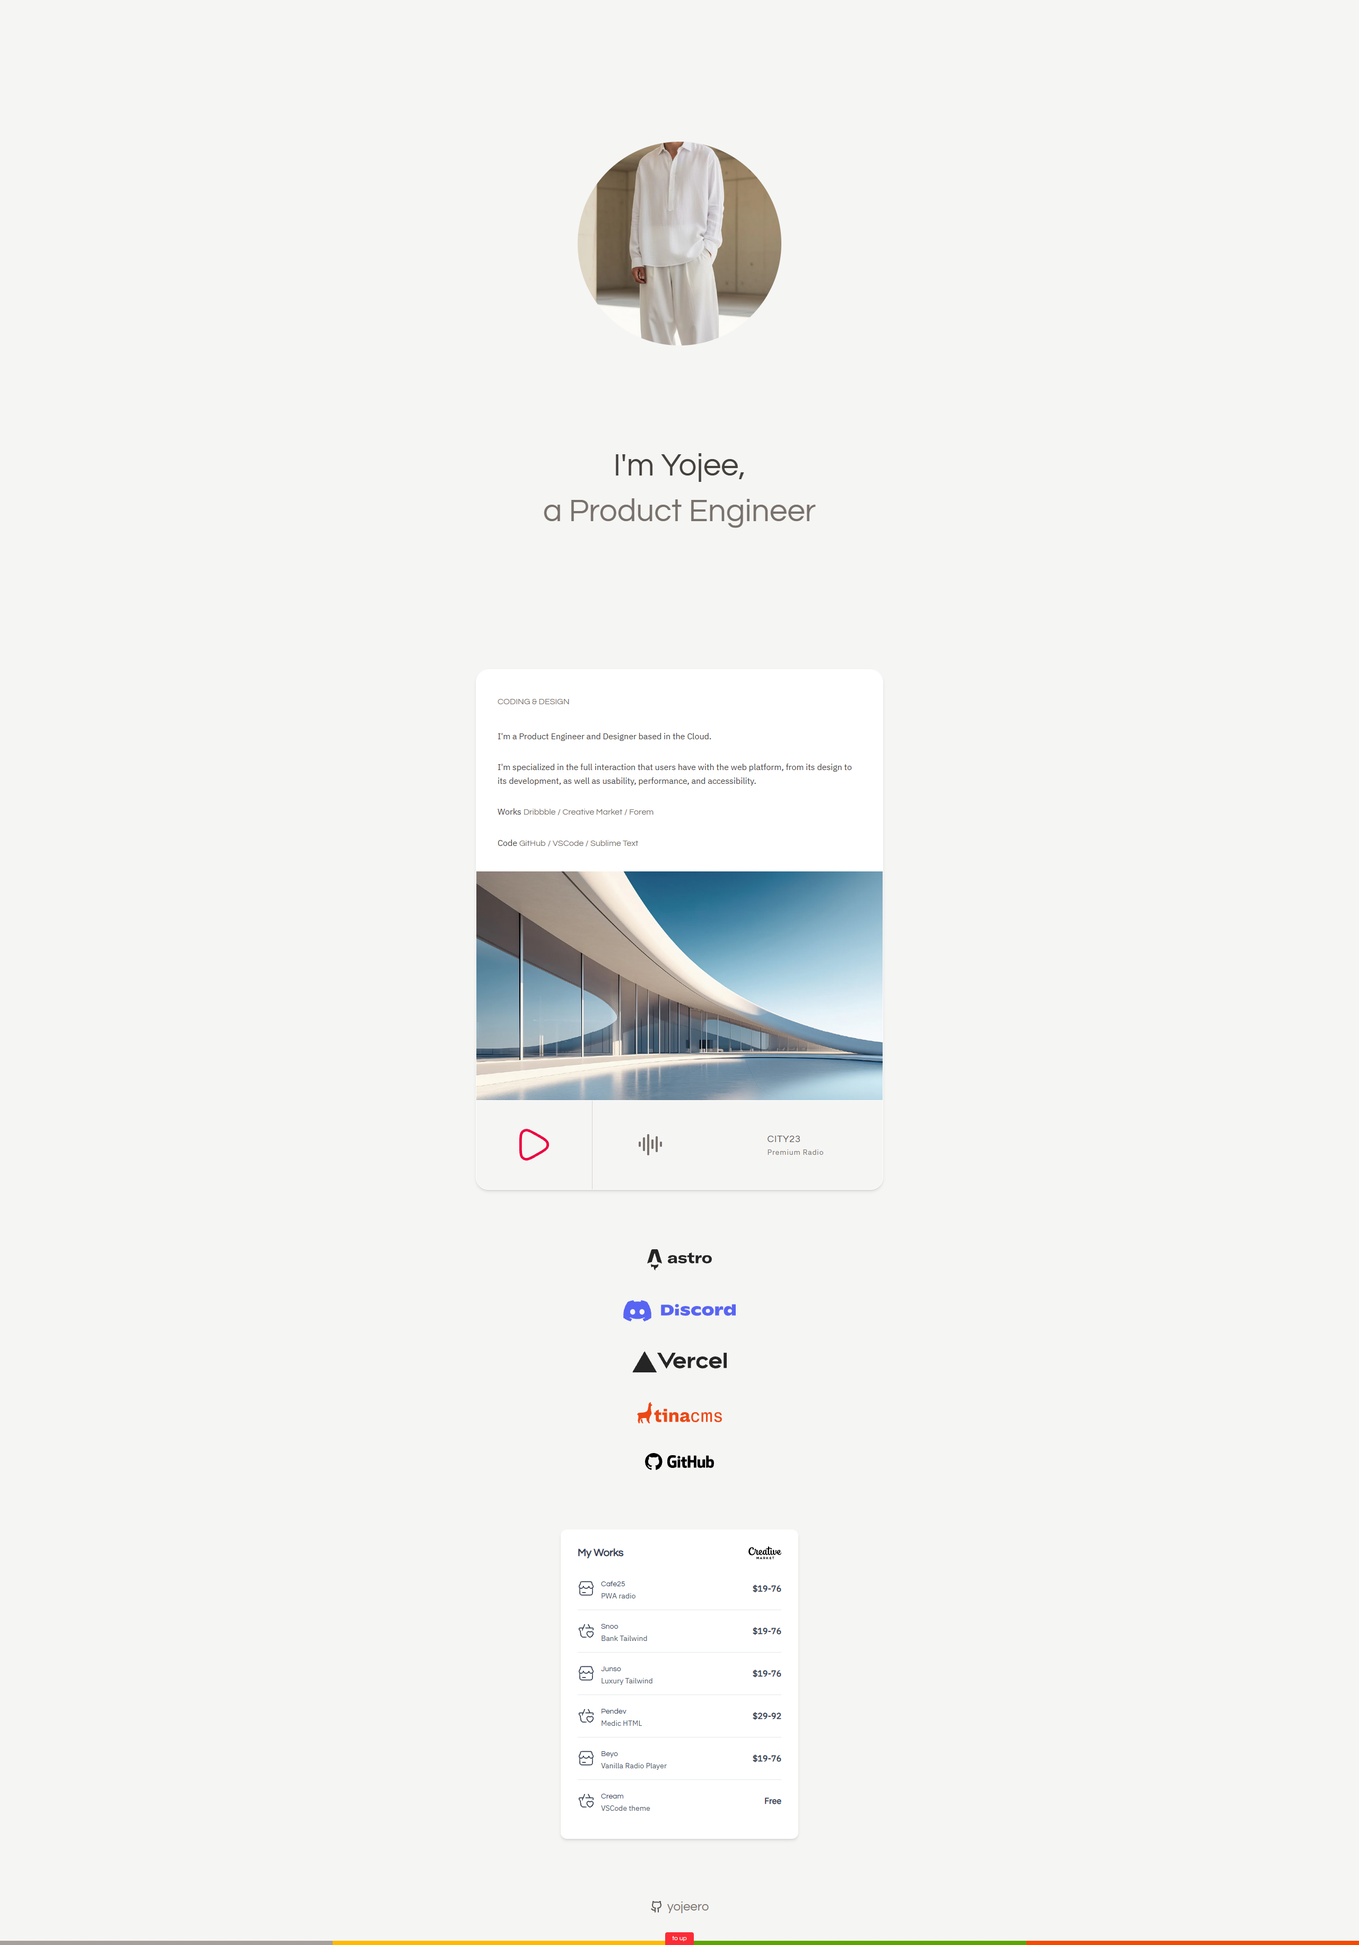
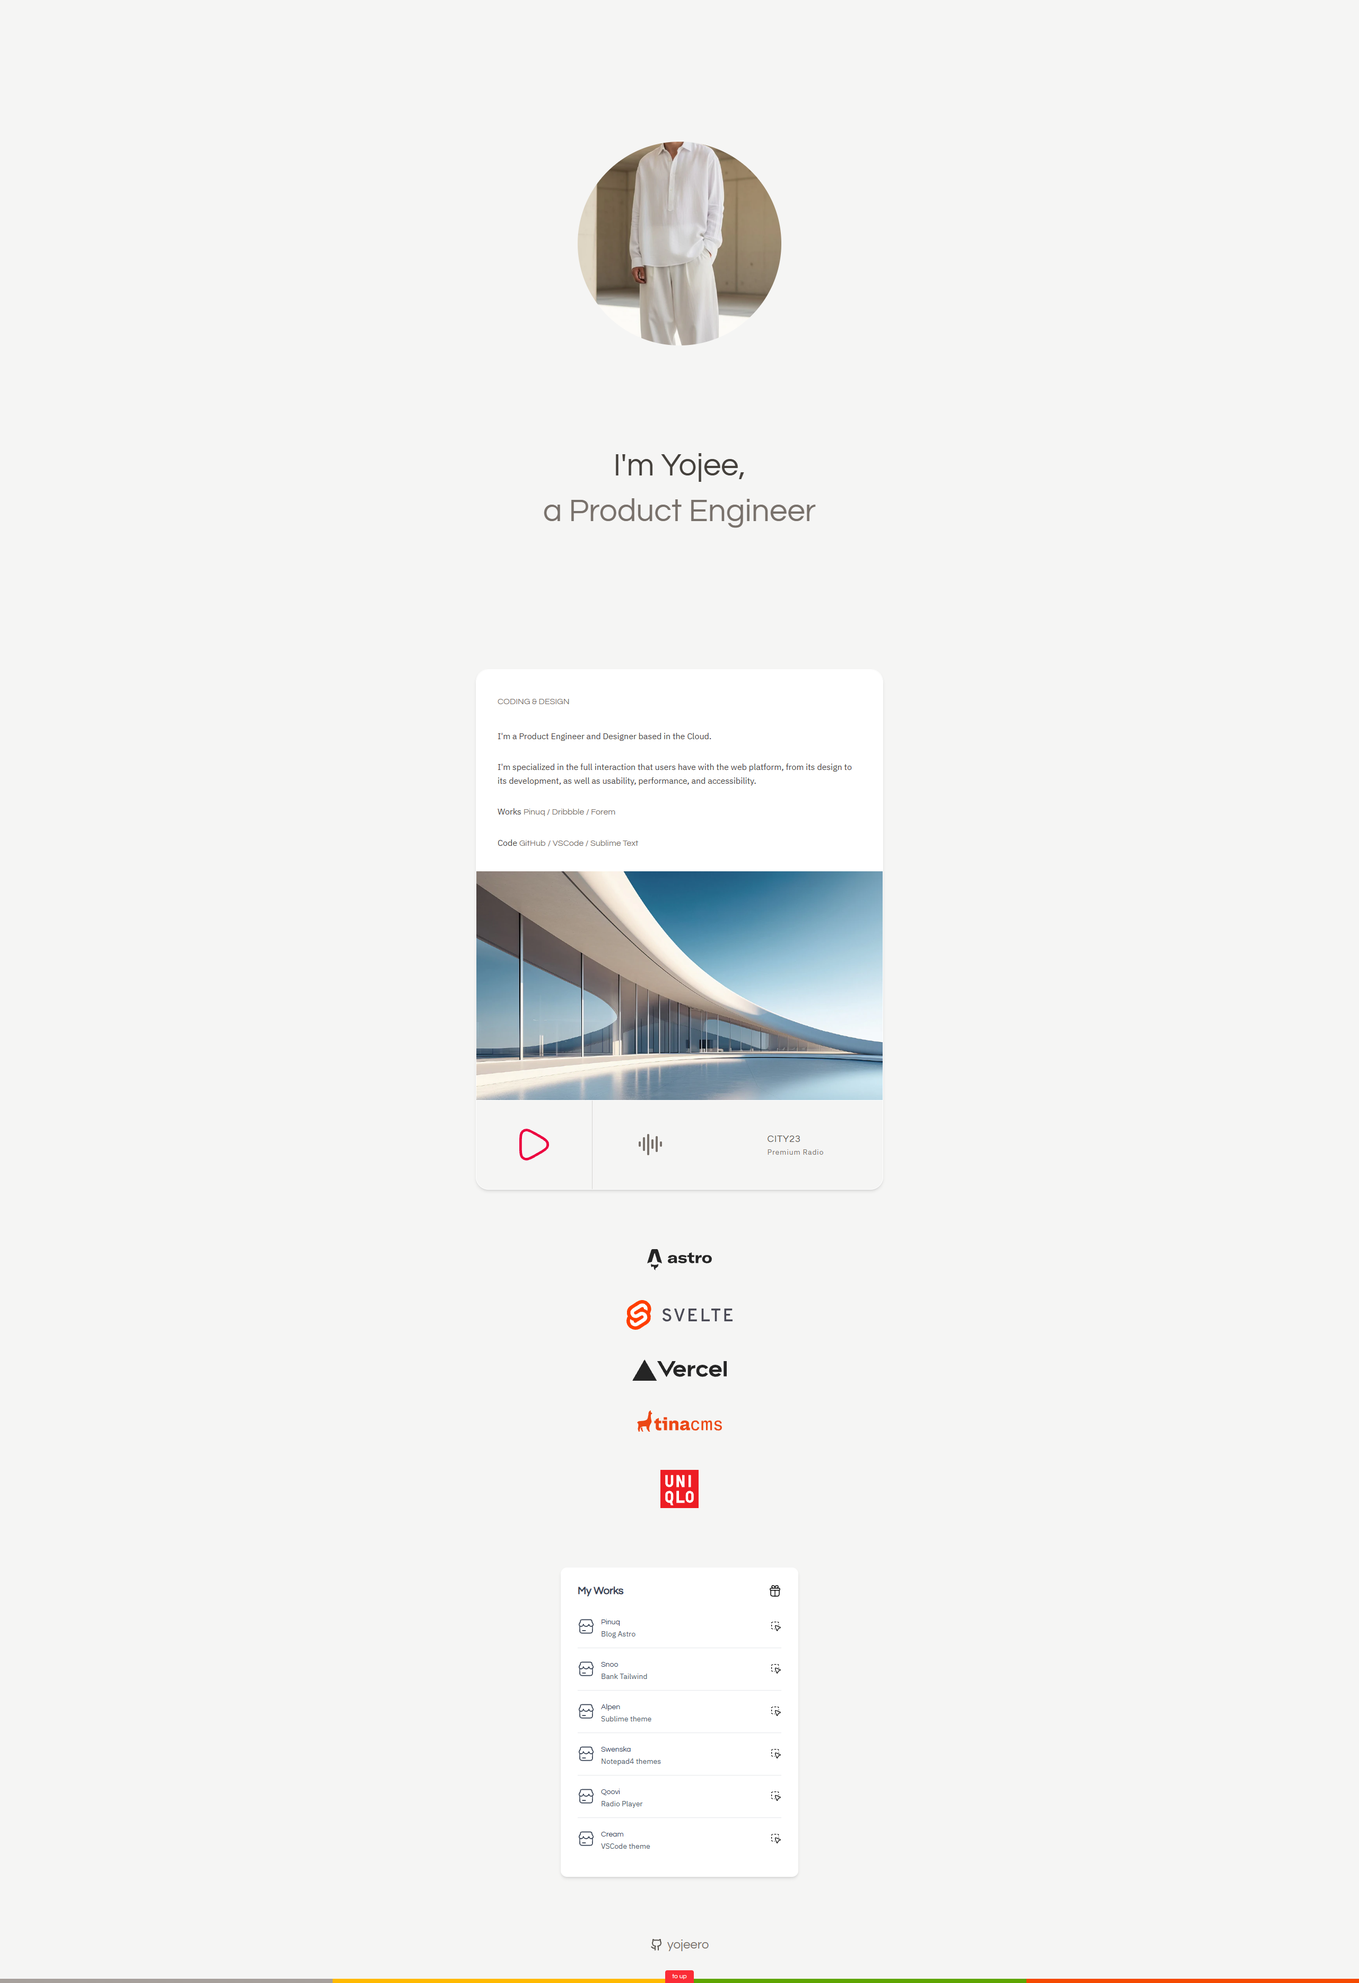
new

diff --git a/index.html b/index.html
@@ -4,11 +4,11 @@
     <meta charset="utf-8">
     <meta name="viewport" content="width=device-width, initial-scale=1.0">
 
-    <title>Yojee — Product Engineer & Designer</title>
+    <title>Yojee | Product Engineer </title>
 
     <meta
       name="description"
-      content="I`m a Product Engineer - Yojee aka @yojeero"
+      content="I`m a Product Engineer, Full-Stack Developer and Designer"
     >
     <link rel="canonical" href="https://yojee.vercel.app/">
 
@@ -45,7 +45,8 @@
           </div>
 
           <div>
-            <span>Works</span>
+            <span>Works</span>        
+
             <a href="https://pinuq.vercel.app" target="_blank"
               >Pinuq /
             </a>
@@ -60,7 +61,7 @@
           </div>
 
           <div>
-            <span>Code</span>
+            <span>Code</span>         
 
             <a href="https://github.com/yojeero" target="_blank">GitHub / </a>
             <a
@@ -220,8 +221,8 @@
             <img src="./images/astro.svg" alt="astro">
           </a>
 
-          <a href="https://discord.com/" target="_blank">
-            <img src="./images/discord.svg" alt="discord">
+          <a href="https://svelte.dev/" target="_blank">
+            <img class="h-14" src="./images/svelte.svg" alt="kofi">
           </a>
 
           <a href="https://vercel.com/" target="_blank">
@@ -232,70 +233,53 @@
             <img src="./images/tina.svg" alt="tina">
           </a>
 
-          <a href="https://github.com/yojeero" target="_blank">
-            <img class="h-8" src="./images/github.svg" alt="github">
+          <a href="https://uniqlo.com/" target="_blank">
+            <img class="h-18 mt-4" src="./images/uniqlo.svg" alt="hm">
           </a>
+
         </div>
 
         <div class="works">
           <div class="card-top">
             <h5>My Works</h5>
 
-            <div class="price">Free</div>
-            <!-- <img class="store" src="./images/stek.svg" alt="paint"> -->
+            <div class="price"></div>
+            <img class="h-6 object-cover" src="./images/gift.svg" alt="paint">
           </div>
 
           <div class="works-card">
             <ul>
+
               <li>
                 <div class="product">
-                  <svg viewBox="0 0 24 24" role="img" aria-label="Cafe25">
-                    <title>Cafe25</title>
-                    <g
-                      fill="none"
-                      stroke="currentColor"
-                      stroke-linecap="round"
-                      stroke-linejoin="round"
-                      stroke-width="1.3"
-                      color="currentColor"
-                    >
-                      <path
-                        d="M3 10.987v4.506c0 2.833 0 4.249.879 5.129c.878.88 2.293.88 5.121.88h6c2.828 0 4.243 0 5.121-.88S21 18.326 21 15.493v-4.506M7 17.974h4"
-                      />
-                      <path
-                        d="M17.796 2.5L6.15 2.53c-1.738-.09-2.184 1.249-2.184 1.903c0 .585-.075 1.438-1.14 3.042c-1.066 1.603-.986 2.08-.385 3.19c.498.92 1.766 1.28 2.428 1.341c2.1.048 3.122-1.766 3.122-3.041c1.042 3.203 4.005 3.203 5.325 2.837c1.322-.367 2.456-1.68 2.723-2.837c.156 1.437.63 2.276 2.027 2.852c1.449.597 2.694-.315 3.319-.9s1.026-1.883-.088-3.31c-.768-.984-1.089-1.912-1.194-2.872c-.06-.557-.114-1.155-.506-1.536c-.572-.556-1.394-.725-1.801-.699"
-                      />
-                    </g>
+                  <svg viewBox="0 0 24 24" aria-label="store" role="img" fill="none" stroke="currentColor"
+                    stroke-linecap="round" stroke-linejoin="round" stroke-width="1.3" color="currentColor">
+                    <path
+                      d="M3 10.987v4.506c0 2.833 0 4.249.879 5.129c.878.88 2.293.88 5.121.88h6c2.828 0 4.243 0 5.121-.88S21 18.326 21 15.493v-4.506M7 17.974h4" />
+                    <path
+                      d="M17.796 2.5L6.15 2.53c-1.738-.09-2.184 1.249-2.184 1.903c0 .585-.075 1.438-1.14 3.042c-1.066 1.603-.986 2.08-.385 3.19c.498.92 1.766 1.28 2.428 1.341c2.1.048 3.122-1.766 3.122-3.041c1.042 3.203 4.005 3.203 5.325 2.837c1.322-.367 2.456-1.68 2.723-2.837c.156 1.437.63 2.276 2.027 2.852c1.449.597 2.694-.315 3.319-.9s1.026-1.883-.088-3.31c-.768-.984-1.089-1.912-1.194-2.872c-.06-.557-.114-1.155-.506-1.536c-.572-.556-1.394-.725-1.801-.699" />
                   </svg>
-
                   <div class="product-new">
                     <a
-                      href="https://github.com/yojeero/cafe25"
+                      href="https://github.com/yojeero/pinuq"
                       target="_blank"
-                      >Cafe25</a
+                      >Pinuq</a
                     >
-
-                    <p>Radio Player</p>
+                    <p>Blog Astro</p>
                   </div>
 
-                  <img class="store" src="./images/note.svg" alt="code">
-                  <!-- <div class="price">Free</div> -->
+              <img class="h-5 object-cover" src="./images/mouse.svg" alt="download"> 
                 </div>
               </li>
 
               <li>
                 <div class="product">
-                  <svg viewBox="0 0 24 24" role="img" aria-label="Snoo">
-                    <title>Snoo</title>
+                  <svg viewBox="0 0 24 24" aria-label="store" role="img" fill="none" stroke="currentColor"
+                    stroke-linecap="round" stroke-linejoin="round" stroke-width="1.3" color="currentColor">
                     <path
-                      fill="none"
-                      stroke="currentColor"
-                      stroke-linecap="round"
-                      stroke-linejoin="round"
-                      stroke-width="1.3"
-                      d="M11.5 8h8.696c.625 0 .937 0 1.166.1c1.012.447.56 1.57.39 2.378c-.033.154-.133.247-.252.323M7.5 8H3.804c-.625 0-.937 0-1.166.1c-1.012.447-.56 1.57-.39 2.378a.49.49 0 0 0 .27.335a1.93 1.93 0 0 1 1.09 1.4l.593 3.375c.26 1.485.35 3.606 1.65 4.652c.955.76 2.33.76 5.081.76H12m2.142-7.558c1.207-.731 2.26-.437 2.893.033c.259.192.389.288.465.288s.206-.096.465-.288c.633-.47 1.686-.764 2.893-.033c1.584.96 1.942 4.125-1.71 6.795c-.697.509-1.044.763-1.648.763s-.951-.254-1.647-.763c-3.653-2.67-3.295-5.836-1.711-6.795M6.5 11L10 3m5 0l2.5 5"
-                      color="currentColor"
-                    />
+                      d="M3 10.987v4.506c0 2.833 0 4.249.879 5.129c.878.88 2.293.88 5.121.88h6c2.828 0 4.243 0 5.121-.88S21 18.326 21 15.493v-4.506M7 17.974h4" />
+                    <path
+                      d="M17.796 2.5L6.15 2.53c-1.738-.09-2.184 1.249-2.184 1.903c0 .585-.075 1.438-1.14 3.042c-1.066 1.603-.986 2.08-.385 3.19c.498.92 1.766 1.28 2.428 1.341c2.1.048 3.122-1.766 3.122-3.041c1.042 3.203 4.005 3.203 5.325 2.837c1.322-.367 2.456-1.68 2.723-2.837c.156 1.437.63 2.276 2.027 2.852c1.449.597 2.694-.315 3.319-.9s1.026-1.883-.088-3.31c-.768-.984-1.089-1.912-1.194-2.872c-.06-.557-.114-1.155-.506-1.536c-.572-.556-1.394-.725-1.801-.699" />
                   </svg>
 
                   <div class="product-new">
@@ -304,34 +288,21 @@
                       target="_blank"
                       >Snoo</a
                     >
-
                     <p>Bank Tailwind</p>
                   </div>
 
-                  <img class="store" src="./images/note2.svg" alt="code">
-                  <!-- <div class="price">Free</div> -->
+              <img class="h-5 object-cover" src="./images/mouse.svg" alt="download">
                 </div>
               </li>
 
               <li>
                 <div class="product">
-                  <svg viewBox="0 0 24 24" role="img" aria-label="Alpen">
-                    <title>Alpen</title>
-                    <g
-                      fill="none"
-                      stroke="currentColor"
-                      stroke-linecap="round"
-                      stroke-linejoin="round"
-                      stroke-width="1.3"
-                      color="currentColor"
-                    >
-                      <path
-                        d="M3 10.987v4.506c0 2.833 0 4.249.879 5.129c.878.88 2.293.88 5.121.88h6c2.828 0 4.243 0 5.121-.88S21 18.326 21 15.493v-4.506M7 17.974h4"
-                      />
-                      <path
-                        d="M17.796 2.5L6.15 2.53c-1.738-.09-2.184 1.249-2.184 1.903c0 .585-.075 1.438-1.14 3.042c-1.066 1.603-.986 2.08-.385 3.19c.498.92 1.766 1.28 2.428 1.341c2.1.048 3.122-1.766 3.122-3.041c1.042 3.203 4.005 3.203 5.325 2.837c1.322-.367 2.456-1.68 2.723-2.837c.156 1.437.63 2.276 2.027 2.852c1.449.597 2.694-.315 3.319-.9s1.026-1.883-.088-3.31c-.768-.984-1.089-1.912-1.194-2.872c-.06-.557-.114-1.155-.506-1.536c-.572-.556-1.394-.725-1.801-.699"
-                      />
-                    </g>
+                 <svg viewBox="0 0 24 24" aria-label="store" role="img" fill="none" stroke="currentColor"
+                    stroke-linecap="round" stroke-linejoin="round" stroke-width="1.3" color="currentColor">
+                    <path
+                      d="M3 10.987v4.506c0 2.833 0 4.249.879 5.129c.878.88 2.293.88 5.121.88h6c2.828 0 4.243 0 5.121-.88S21 18.326 21 15.493v-4.506M7 17.974h4" />
+                    <path
+                      d="M17.796 2.5L6.15 2.53c-1.738-.09-2.184 1.249-2.184 1.903c0 .585-.075 1.438-1.14 3.042c-1.066 1.603-.986 2.08-.385 3.19c.498.92 1.766 1.28 2.428 1.341c2.1.048 3.122-1.766 3.122-3.041c1.042 3.203 4.005 3.203 5.325 2.837c1.322-.367 2.456-1.68 2.723-2.837c.156 1.437.63 2.276 2.027 2.852c1.449.597 2.694-.315 3.319-.9s1.026-1.883-.088-3.31c-.768-.984-1.089-1.912-1.194-2.872c-.06-.557-.114-1.155-.506-1.536c-.572-.556-1.394-.725-1.801-.699" />
                   </svg>
 
                   <div class="product-new">
@@ -340,28 +311,21 @@
                       target="_blank"
                       >Alpen</a
                     >
-
                     <p>Sublime theme</p>
                   </div>
 
-                  <img class="store" src="./images/note.svg" alt="code">
-                  <!-- <div class="price">Free</div> -->
+                <img class="h-5 object-cover" src="./images/mouse.svg" alt="download">
                 </div>
               </li>
 
               <li>
                 <div class="product">
-                  <svg viewBox="0 0 24 24" role="img" aria-label="Swenska">
-                    <title>Swenska</title>
+                  <svg viewBox="0 0 24 24" aria-label="store" role="img" fill="none" stroke="currentColor"
+                    stroke-linecap="round" stroke-linejoin="round" stroke-width="1.3" color="currentColor">
                     <path
-                      fill="none"
-                      stroke="currentColor"
-                      stroke-linecap="round"
-                      stroke-linejoin="round"
-                      stroke-width="1.3"
-                      d="M11.5 8h8.696c.625 0 .937 0 1.166.1c1.012.447.56 1.57.39 2.378c-.033.154-.133.247-.252.323M7.5 8H3.804c-.625 0-.937 0-1.166.1c-1.012.447-.56 1.57-.39 2.378a.49.49 0 0 0 .27.335a1.93 1.93 0 0 1 1.09 1.4l.593 3.375c.26 1.485.35 3.606 1.65 4.652c.955.76 2.33.76 5.081.76H12m2.142-7.558c1.207-.731 2.26-.437 2.893.033c.259.192.389.288.465.288s.206-.096.465-.288c.633-.47 1.686-.764 2.893-.033c1.584.96 1.942 4.125-1.71 6.795c-.697.509-1.044.763-1.648.763s-.951-.254-1.647-.763c-3.653-2.67-3.295-5.836-1.711-6.795M6.5 11L10 3m5 0l2.5 5"
-                      color="currentColor"
-                    />
+                      d="M3 10.987v4.506c0 2.833 0 4.249.879 5.129c.878.88 2.293.88 5.121.88h6c2.828 0 4.243 0 5.121-.88S21 18.326 21 15.493v-4.506M7 17.974h4" />
+                    <path
+                      d="M17.796 2.5L6.15 2.53c-1.738-.09-2.184 1.249-2.184 1.903c0 .585-.075 1.438-1.14 3.042c-1.066 1.603-.986 2.08-.385 3.19c.498.92 1.766 1.28 2.428 1.341c2.1.048 3.122-1.766 3.122-3.041c1.042 3.203 4.005 3.203 5.325 2.837c1.322-.367 2.456-1.68 2.723-2.837c.156 1.437.63 2.276 2.027 2.852c1.449.597 2.694-.315 3.319-.9s1.026-1.883-.088-3.31c-.768-.984-1.089-1.912-1.194-2.872c-.06-.557-.114-1.155-.506-1.536c-.572-.556-1.394-.725-1.801-.699" />
                   </svg>
 
                   <div class="product-new">
@@ -370,64 +334,44 @@
                       target="_blank"
                       >Swenska</a
                     >
-
                     <p>Notepad4 themes</p>
                   </div>
 
-                  <img class="store" src="./images/note2.svg" alt="code">
-                  <!-- <div class="price">Free</div> -->
+                 <img class="h-5 object-cover" src="./images/mouse.svg" alt="download">      
                 </div>
               </li>
 
               <li>
                 <div class="product">
-                  <svg viewBox="0 0 24 24" role="img" aria-label="Beyo">
-                    <title>Beyo</title>
-                    <g
-                      fill="none"
-                      stroke="currentColor"
-                      stroke-linecap="round"
-                      stroke-linejoin="round"
-                      stroke-width="1.3"
-                      color="currentColor"
-                    >
-                      <path
-                        d="M3 10.987v4.506c0 2.833 0 4.249.879 5.129c.878.88 2.293.88 5.121.88h6c2.828 0 4.243 0 5.121-.88S21 18.326 21 15.493v-4.506M7 17.974h4"
-                      />
-                      <path
-                        d="M17.796 2.5L6.15 2.53c-1.738-.09-2.184 1.249-2.184 1.903c0 .585-.075 1.438-1.14 3.042c-1.066 1.603-.986 2.08-.385 3.19c.498.92 1.766 1.28 2.428 1.341c2.1.048 3.122-1.766 3.122-3.041c1.042 3.203 4.005 3.203 5.325 2.837c1.322-.367 2.456-1.68 2.723-2.837c.156 1.437.63 2.276 2.027 2.852c1.449.597 2.694-.315 3.319-.9s1.026-1.883-.088-3.31c-.768-.984-1.089-1.912-1.194-2.872c-.06-.557-.114-1.155-.506-1.536c-.572-.556-1.394-.725-1.801-.699"
-                      />
-                    </g>
+                  <svg viewBox="0 0 24 24" aria-label="store" role="img" fill="none" stroke="currentColor"
+                    stroke-linecap="round" stroke-linejoin="round" stroke-width="1.3" color="currentColor">
+                    <path
+                      d="M3 10.987v4.506c0 2.833 0 4.249.879 5.129c.878.88 2.293.88 5.121.88h6c2.828 0 4.243 0 5.121-.88S21 18.326 21 15.493v-4.506M7 17.974h4" />
+                    <path
+                      d="M17.796 2.5L6.15 2.53c-1.738-.09-2.184 1.249-2.184 1.903c0 .585-.075 1.438-1.14 3.042c-1.066 1.603-.986 2.08-.385 3.19c.498.92 1.766 1.28 2.428 1.341c2.1.048 3.122-1.766 3.122-3.041c1.042 3.203 4.005 3.203 5.325 2.837c1.322-.367 2.456-1.68 2.723-2.837c.156 1.437.63 2.276 2.027 2.852c1.449.597 2.694-.315 3.319-.9s1.026-1.883-.088-3.31c-.768-.984-1.089-1.912-1.194-2.872c-.06-.557-.114-1.155-.506-1.536c-.572-.556-1.394-.725-1.801-.699" />
                   </svg>
 
                   <div class="product-new">
                     <a
-                      href="https://github.com/yojeero/beyo"
+                      href="https://github.com/yojeero/qoovi"
                       target="_blank"
-                      >Beyo</a
+                      >Qoovi</a
                     >
-
-                    <p>Vanilla Radio Player</p>
+                    <p>Radio Player</p>
                   </div>
 
-                  <img class="store" src="./images/note.svg" alt="code">
-                  <!-- <div class="price">Free</div> -->
+                   <img class="h-5 object-cover" src="./images/mouse.svg" alt="download">
                 </div>
               </li>
 
               <li>
                 <div class="product">
-                  <svg viewBox="0 0 24 24" role="img" aria-label="Cream">
-                    <title>Cream</title>
+                 <svg viewBox="0 0 24 24" aria-label="store" role="img" fill="none" stroke="currentColor"
+                    stroke-linecap="round" stroke-linejoin="round" stroke-width="1.3" color="currentColor">
                     <path
-                      fill="none"
-                      stroke="currentColor"
-                      stroke-linecap="round"
-                      stroke-linejoin="round"
-                      stroke-width="1.3"
-                      d="M11.5 8h8.696c.625 0 .937 0 1.166.1c1.012.447.56 1.57.39 2.378c-.033.154-.133.247-.252.323M7.5 8H3.804c-.625 0-.937 0-1.166.1c-1.012.447-.56 1.57-.39 2.378a.49.49 0 0 0 .27.335a1.93 1.93 0 0 1 1.09 1.4l.593 3.375c.26 1.485.35 3.606 1.65 4.652c.955.76 2.33.76 5.081.76H12m2.142-7.558c1.207-.731 2.26-.437 2.893.033c.259.192.389.288.465.288s.206-.096.465-.288c.633-.47 1.686-.764 2.893-.033c1.584.96 1.942 4.125-1.71 6.795c-.697.509-1.044.763-1.648.763s-.951-.254-1.647-.763c-3.653-2.67-3.295-5.836-1.711-6.795M6.5 11L10 3m5 0l2.5 5"
-                      color="currentColor"
-                    />
+                      d="M3 10.987v4.506c0 2.833 0 4.249.879 5.129c.878.88 2.293.88 5.121.88h6c2.828 0 4.243 0 5.121-.88S21 18.326 21 15.493v-4.506M7 17.974h4" />
+                    <path
+                      d="M17.796 2.5L6.15 2.53c-1.738-.09-2.184 1.249-2.184 1.903c0 .585-.075 1.438-1.14 3.042c-1.066 1.603-.986 2.08-.385 3.19c.498.92 1.766 1.28 2.428 1.341c2.1.048 3.122-1.766 3.122-3.041c1.042 3.203 4.005 3.203 5.325 2.837c1.322-.367 2.456-1.68 2.723-2.837c.156 1.437.63 2.276 2.027 2.852c1.449.597 2.694-.315 3.319-.9s1.026-1.883-.088-3.31c-.768-.984-1.089-1.912-1.194-2.872c-.06-.557-.114-1.155-.506-1.536c-.572-.556-1.394-.725-1.801-.699" />
                   </svg>
 
                   <div class="product-new">
@@ -436,12 +380,10 @@
                       target="_blank"
                       >Cream</a
                     >
-
                     <p>VSCode theme</p>
                   </div>
 
-                  <img class="store" src="./images/note2.svg" alt="code">
-                  <!-- <div class="price">Free</div> -->
+                   <img class="h-5 object-cover" src="./images/mouse.svg" alt="download">
                 </div>
               </li>
             </ul>

diff --git a/src/css/style.css b/src/css/style.css
@@ -154,10 +154,6 @@
     @apply flex items-center justify-between mb-4;
   }
 
-  img.store {
-    @apply h-6 object-cover;
-  }
-
   .card-top h5 {
     @apply text-xl font-bold leading-none text-gray-700;
   }

diff --git a/README.md b/README.md
@@ -1,4 +1,4 @@
-<img src="preview/d1.webp" width="100%">   
+<img src="preview/2.webp" width="100%">   
 
 <img src="https://img.shields.io/badge/Yojee-7678ed?style=for-the-badge" width="40%" alt="Yojee">
 
